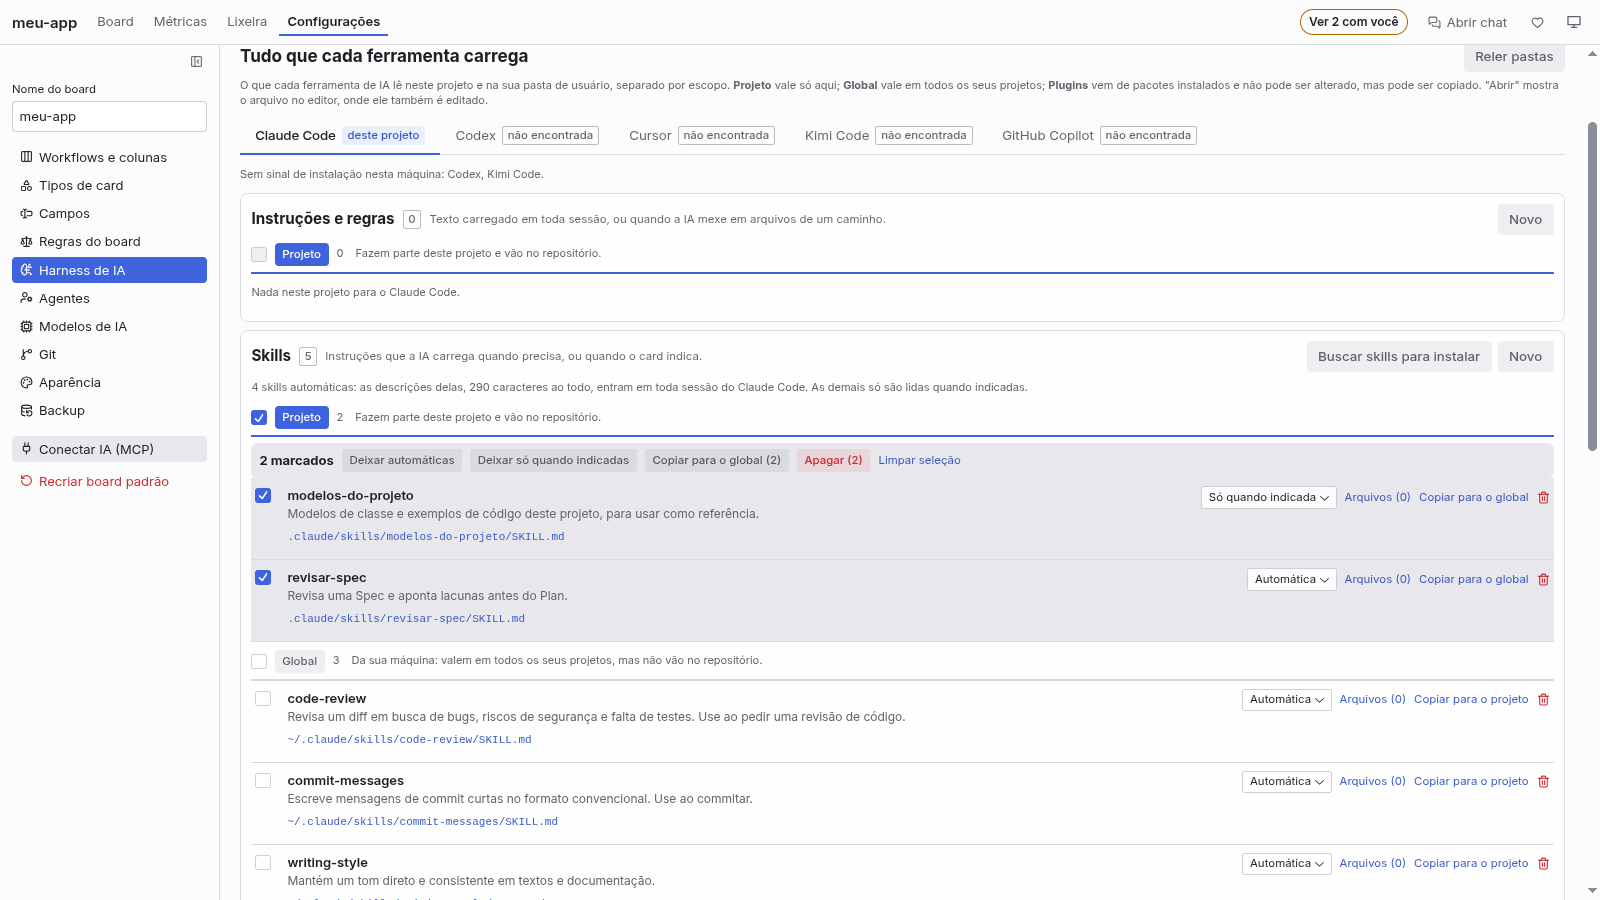
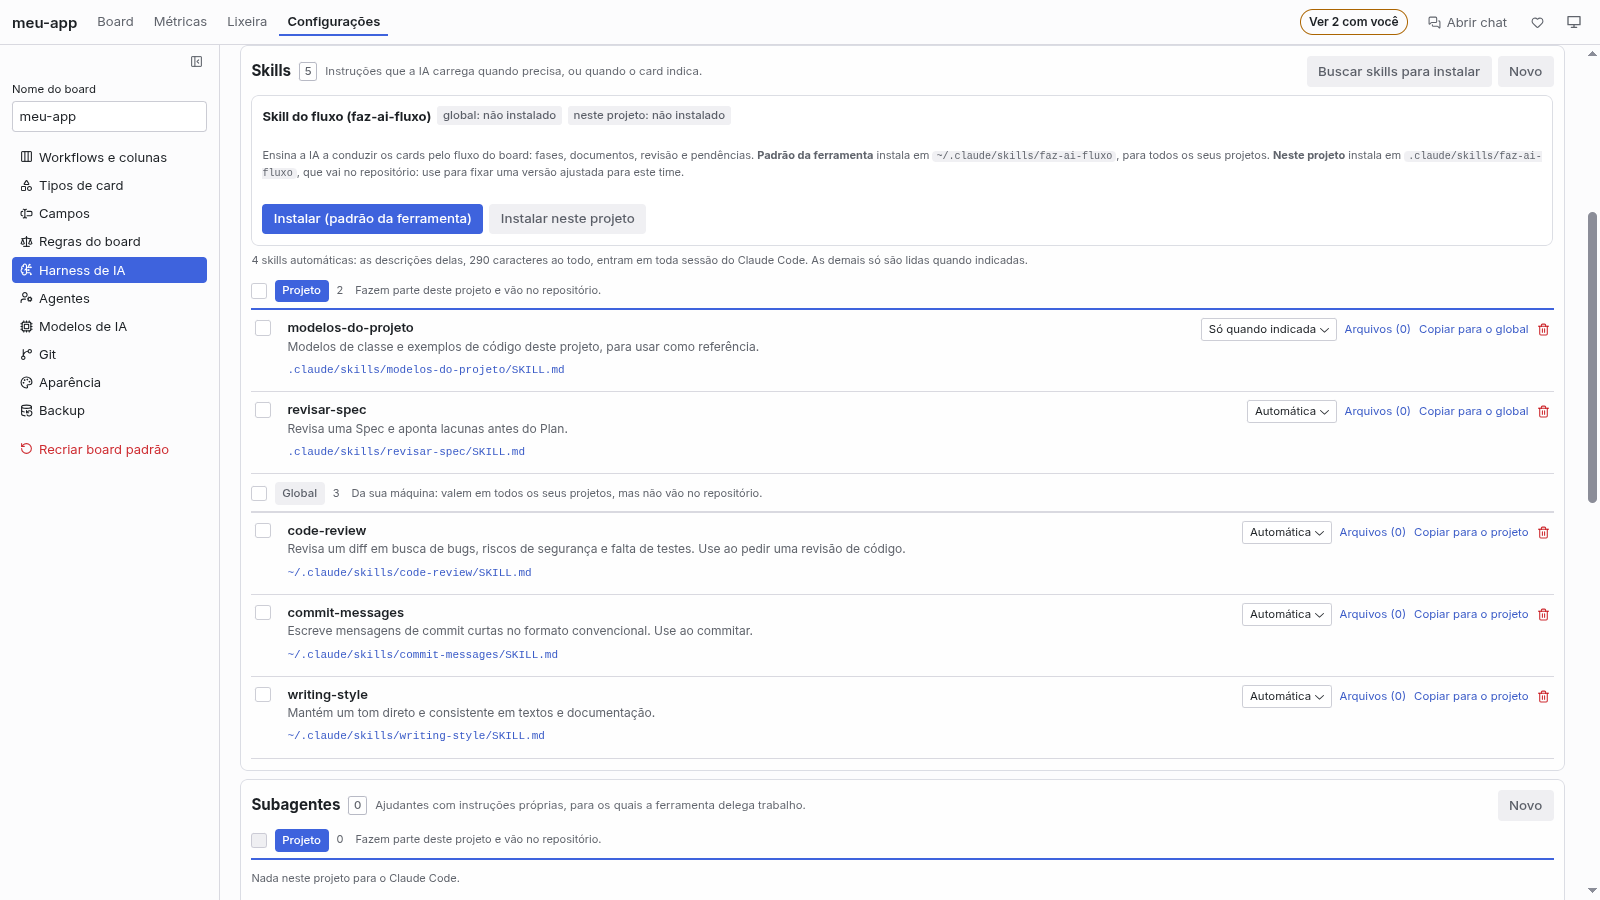
README: imagens de agentes, harness e modelos com a interface atual (#144)

diff --git a/README.md b/README.md
@@ -627,7 +627,7 @@ pelo `get_card`, como orientação.
 
 ## Harness de IA
 
-![Lista de skills do projeto e globais, com seleção e ações em massa](docs/images/harness.png)
+![Skills do projeto e globais, com a instalação da skill do fluxo no global ou no projeto](docs/images/harness.png)
 
 Em Configurações → **Harness de IA** fica tudo que as ferramentas de IA carregam, em três abas:
 **Ferramenta e execução** (a IA do projeto e como o board a chama), **Do projeto** (o arquivo de
@@ -689,7 +689,7 @@ formatos de cada ferramenta e a solução de problemas estão em [docs/mcp.md](d
 
 ## Configurações
 
-![Configurações: catálogo de modelos e regras de sugestão](docs/images/settings.png)
+![Configurações: catálogo de modelos com preço por modelo e regras de sugestão](docs/images/settings.png)
 
 | Seção | O que ajusta |
 | --- | --- |

diff --git a/README_EN.md b/README_EN.md
@@ -652,7 +652,7 @@ AI through `get_card`, as guidance.
 
 ## AI harness
 
-![List of project and global skills, with selection and bulk actions](docs/images/harness_en.png)
+![Project and global skills, with the flow skill install, global or in the project](docs/images/harness_en.png)
 
 Configurações → **Harness de IA** holds everything the AI tools load, in three tabs: **Ferramenta e
 execução** (tool and run: the project's AI and how the board calls it), **Do projeto** (from the
@@ -720,7 +720,7 @@ each tool's formats and troubleshooting are in [docs/mcp.md](docs/mcp.md) (in Po
 
 ## Settings
 
-![Settings: model catalog and suggestion rules](docs/images/settings_en.png)
+![Settings: model catalog with per-model pricing and suggestion rules](docs/images/settings_en.png)
 
 | Section | What it adjusts |
 | --- | --- |

diff --git a/CHANGELOG_EN.md b/CHANGELOG_EN.md
@@ -7,6 +7,8 @@ English; names of screens and buttons appear here as they are in the Portuguese 
 
 ## Unreleased
 
+- **README images** for agents, harness and models redone with this version's interface, in
+  Portuguese and English.
 - **Board MCP and flow skill installed in each tool's section, globally by default** ([#141](https://github.com/euclidesgc/faz-ai/issues/141)).
   - In **Harness de IA → Tudo que a ferramenta carrega**, each tool's **Servidores MCP** section has the board
     server, and its **Skills** section has the flow skill, each with its global and project state and

diff --git a/CHANGELOG.md b/CHANGELOG.md
@@ -6,6 +6,8 @@ As mudanças de cada versão do Faz AI Kanban, da mais recente para a mais antig
 
 ## Não lançado
 
+- **Imagens do README** de agentes, harness e modelos refeitas com a interface desta versão, em
+  português e em inglês.
 - **MCP e skill do fluxo instalados na seção de cada ferramenta, no global por padrão** ([#141](https://github.com/euclidesgc/faz-ai/issues/141)).
   - Em **Harness de IA → Tudo que a ferramenta carrega**, a seção **Servidores MCP** de cada
     ferramenta tem o servidor do board, e a seção **Skills** tem a skill do fluxo, cada um com o
